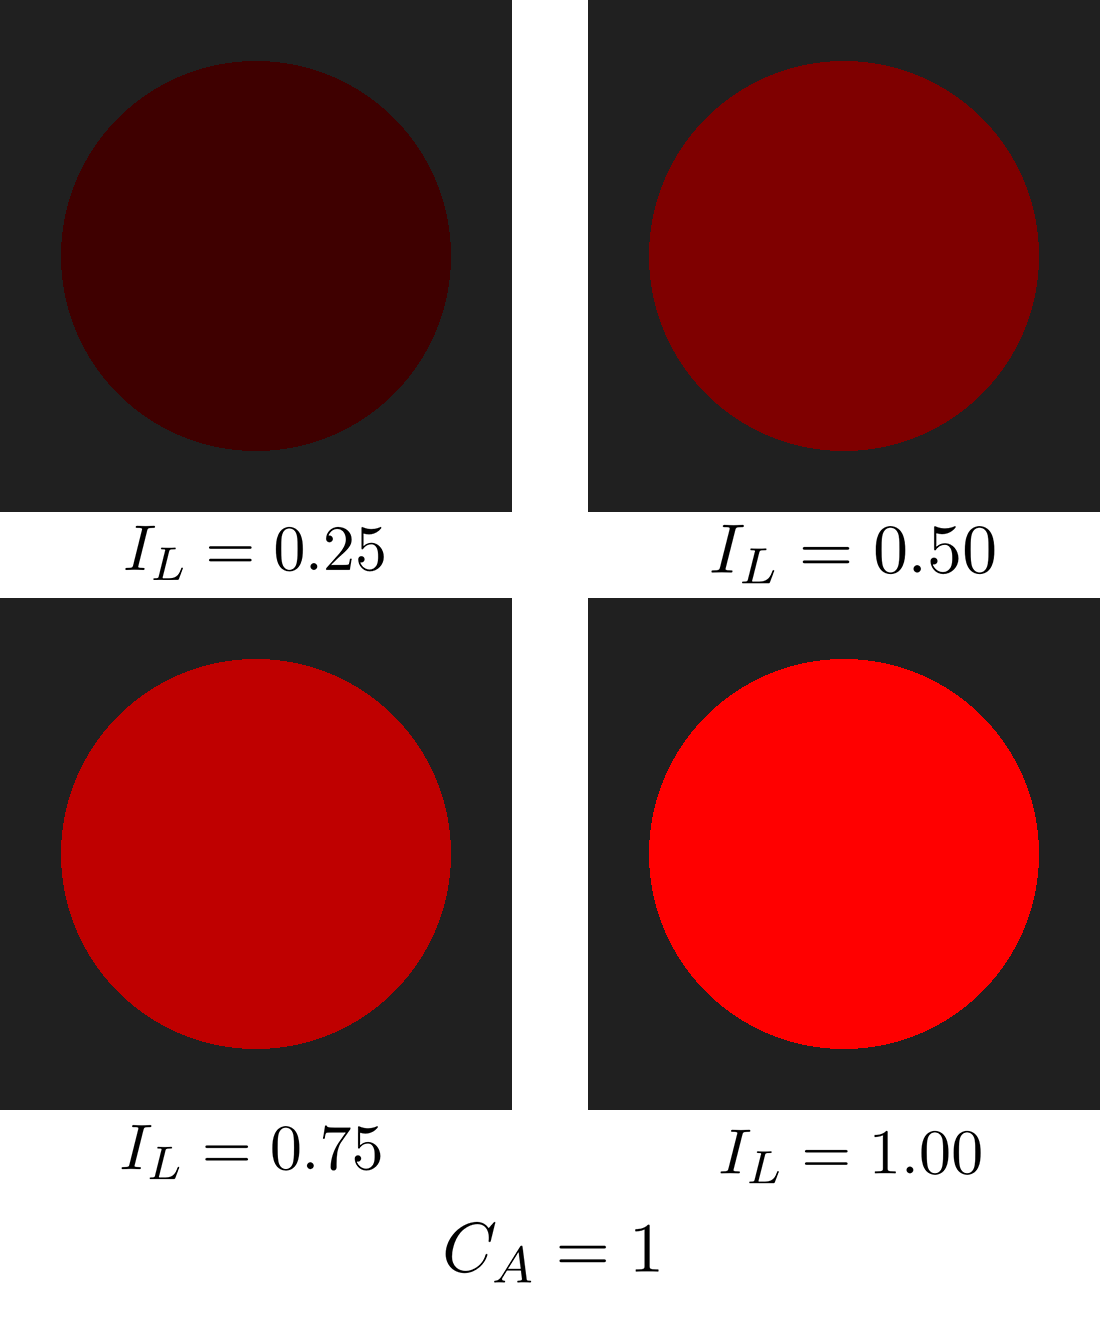
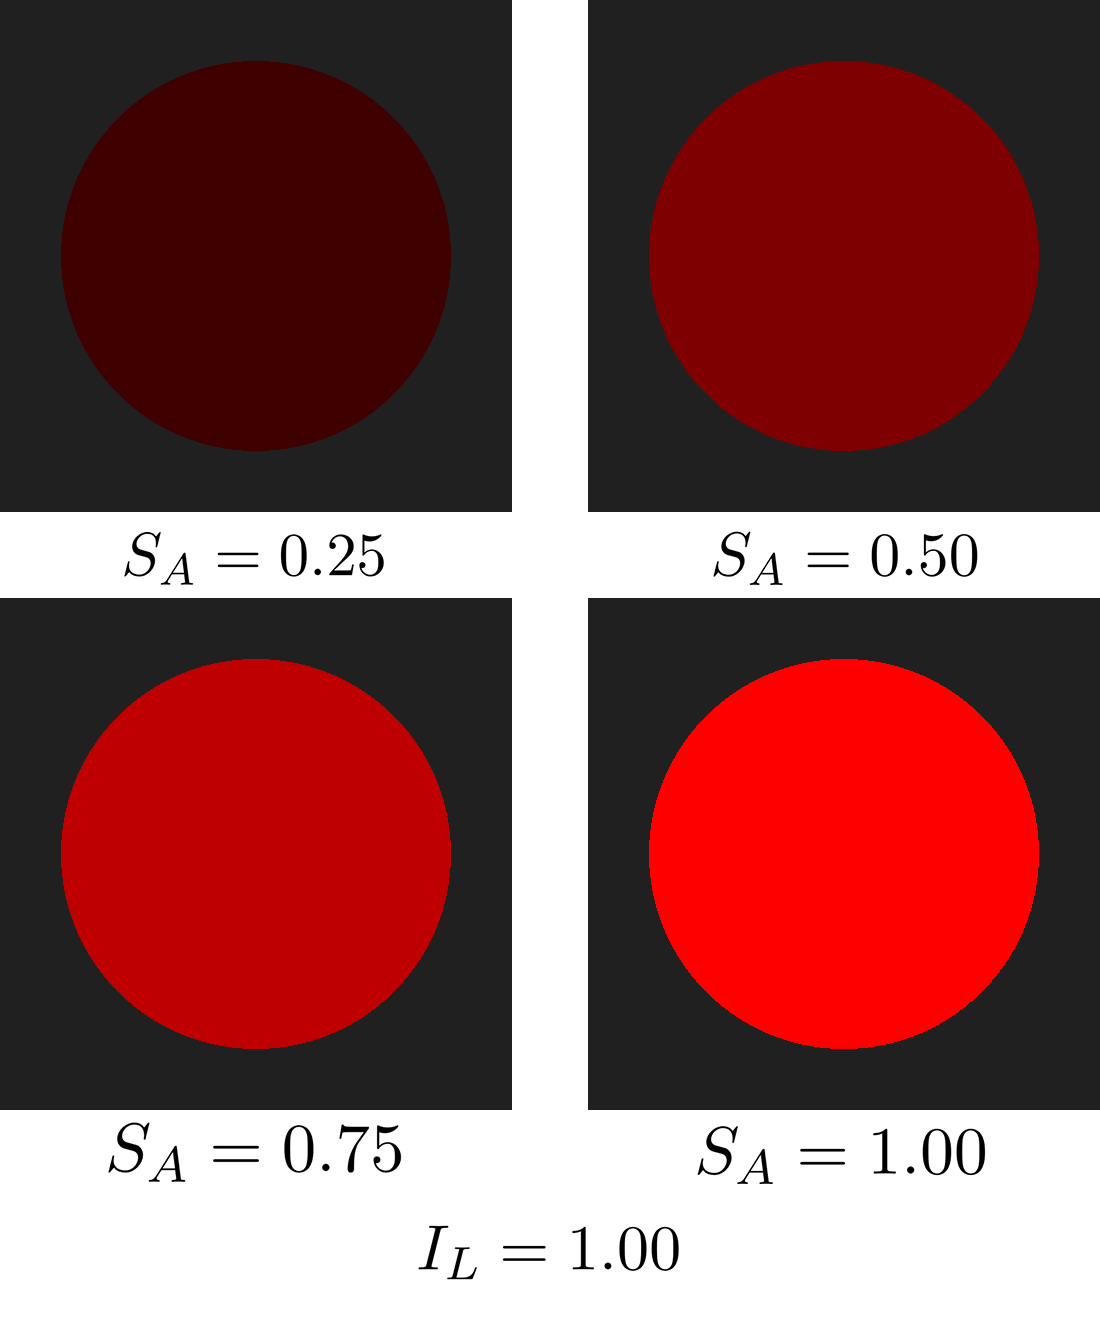
Ajout d'un schéma pour le fonctionnement des ombres. Suppression du coefficient ambiant des objets du rapport

diff --git a/rapport/Rapport RayTracer.tex b/rapport/Rapport RayTracer.tex
@@ -121,7 +121,7 @@ $P(x, y, z), x \in [0; 799], y \in [0; 599], z = -1$ :
 \begin{figure}[h!]
 	\adjustbox{center}{\includegraphics[width=0.5\textwidth]{img/rt/fovCamera.png}}
 
-	\caption{En augmentant le FOV (champ de vision) de la caméra, l'angle $\alpha$ augmente. La hauteur du plan de la caméra, $BC$, est étirée. La caméra verra donc une plus grande partie de la scène.\break Source: scratchapixel.com}
+	\caption{En augmentant le FOV (champ de vision) de la caméra, l'angle $\alpha$ augmente. La hauteur du plan de la caméra, $BC$, est étirée. La caméra verra donc une plus grande partie de la scène. \textbf{Source: scratchapixel.com}}
 	\label{fovCam}
 \end{figure}
 \FloatBarrier
@@ -149,13 +149,13 @@ Comme vu précédemment, la première image (fig. \ref{basicRender}) produite pa
 \end{enumerate}
 
 \hfill\\
-\indent La composante ambiante permet de donner une illumination de base à l'objet. Elle est très simple à calculer:\\
+\indent La composante ambiante permet de donner une illumination de base à l'objet. En temps normal, même si un objet n'est pas directement éclairé par la source de lumière, il est tout de même visible dans la plupart des cas. C'est parce que la lumière de la source lumineuse rebondit dans la scène et les rayons arrivent indirectement éclairer l'objet. C'est ce que l'on appelle l'illumination globale. L'illumination globale est capable de génèrer des images fortes de réalisme mais est très coûteuse en temps de calcul. La composante ambiante de l'ombrage de Phong approxime très simplement cet effet en donnat une "luminosité mininale" à toute la scène. La composante ambiante est très simple à calculer:\\
 
 \begin{center}
-	$Ambiante = I_A = C_A*I_L$
+	$Ambiante = I_A = S_A*I_L$
 \end{center}
 Avec $I_L\ \in\ [0;1]$ l'intensité de la source lumineuse,\\
-$C_A\ \in\ [0; 1]$ le coefficient de luminosité ambiante de l'objet.
+$S_A\ \in\ [0; 1]$ l'intensité de la lumière ambiante dans la scène. Ce paramètre affecte donc tous les objets de la scène.
 
 \begin{figure}[h!]
 	\adjustbox{center}{\includegraphics[width=0.5\textwidth]{img/rt/differentAmbient.png}}
@@ -225,7 +225,7 @@ $C_{P(x, y)} = C_O * IntensitePhong = C_O*(I_A + I_D + I_S)$
 $C_O$ étant la couleur de l'objet,\\
 $I_A, I_D, I_S$ sont les intensités ambiantes, diffuses et spéculaires présentées précédemment.
 
-Pour la même sphère et la même source de lumière, nous obtenos alors:
+Pour la même sphère et la même source de lumière, nous obtenons alors:
 
 \begin{figure}[h!]
 	\adjustbox{center}{\includegraphics[width=0.75\textwidth]{img/rt/phongAddition.png}}
@@ -237,7 +237,17 @@ Pour la même sphère et la même source de lumière, nous obtenos alors:
 
 \subsubsection{Les ombres}
 
-Afin de rajouter un degré de réalisme au rendu, nous nous proposons de rajouter des ombres. Le principe est simple: pour chaque rayon tiré depuis la caméra, on se place au point d'intersection trouvé par le rayon avec un objet de l'environnement. Depuis ce point, on tire un autre rayon directement en direction de la source de lumière. Si ce nouveau rayon vient à intersecter quelque chose sur son chemin à la lumière, cela veut dire que nous sommes dans l'ombre. Quelque chose bloque l'accès direct à la lumière. La couleur du pixel sera alors seulement la partie ambiante de l'objet premièrement intersecté. Si ce deuxième rayon n'intersecte rien, nous ne sommes pas dans l'ombre et nous pouvons calculer l'intensité lumineuse en utilisant l'ombrage de Phong vu en partie \ref{ombragePhong}. De part leur nature, on appelle ces rayons "secondaires" des "shadow ray".
+Afin de rajouter un degré de réalisme au rendu, nous nous proposons de rajouter des ombres. Le principe est simple: pour chaque rayon tiré depuis la caméra, on se place au point d'intersection trouvé par le rayon avec un objet de l'environnement. Depuis ce point, on tire un autre rayon directement en direction de la source de lumière. Si ce nouveau rayon vient à intersecter quelque chose sur son chemin à la lumière, cela veut dire que nous sommes dans l'ombre. Quelque chose bloque l'accès direct à la lumière. La couleur du pixel sera alors seulement la partie ambiante de l'objet premièrement intersecté. Si ce deuxième rayon n'intersecte rien, nous ne sommes pas dans l'ombre et nous pouvons calculer l'intensité lumineuse en utilisant l'ombrage de Phong vu en partie \ref{ombragePhong}. De part leur nature, on appelle ces rayons secondaires des "shadow ray".
+
+\begin{figure}[h!]
+	\adjustbox{center}{\includegraphics[width=0.5\textwidth]{img/rt/test.png}}
+
+	\caption{Les shadow-ray tirés depuis derrière la sphère ne peuvent pas accéder directement à la lumière. C'est une zone d'ombre.}
+	\label{ombresSchema}
+\end{figure}
+\FloatBarrier
+
+L'algorithme de calcul de la couleur de chacun des pixels peut donc être adapté pour tenir compte des ces nouvelles ombres:
 
 \begin{algorithm}[H]
 	\KwIn{$x, y$ les coordonnées du pixel dont on souhaite calculer la couleur}
